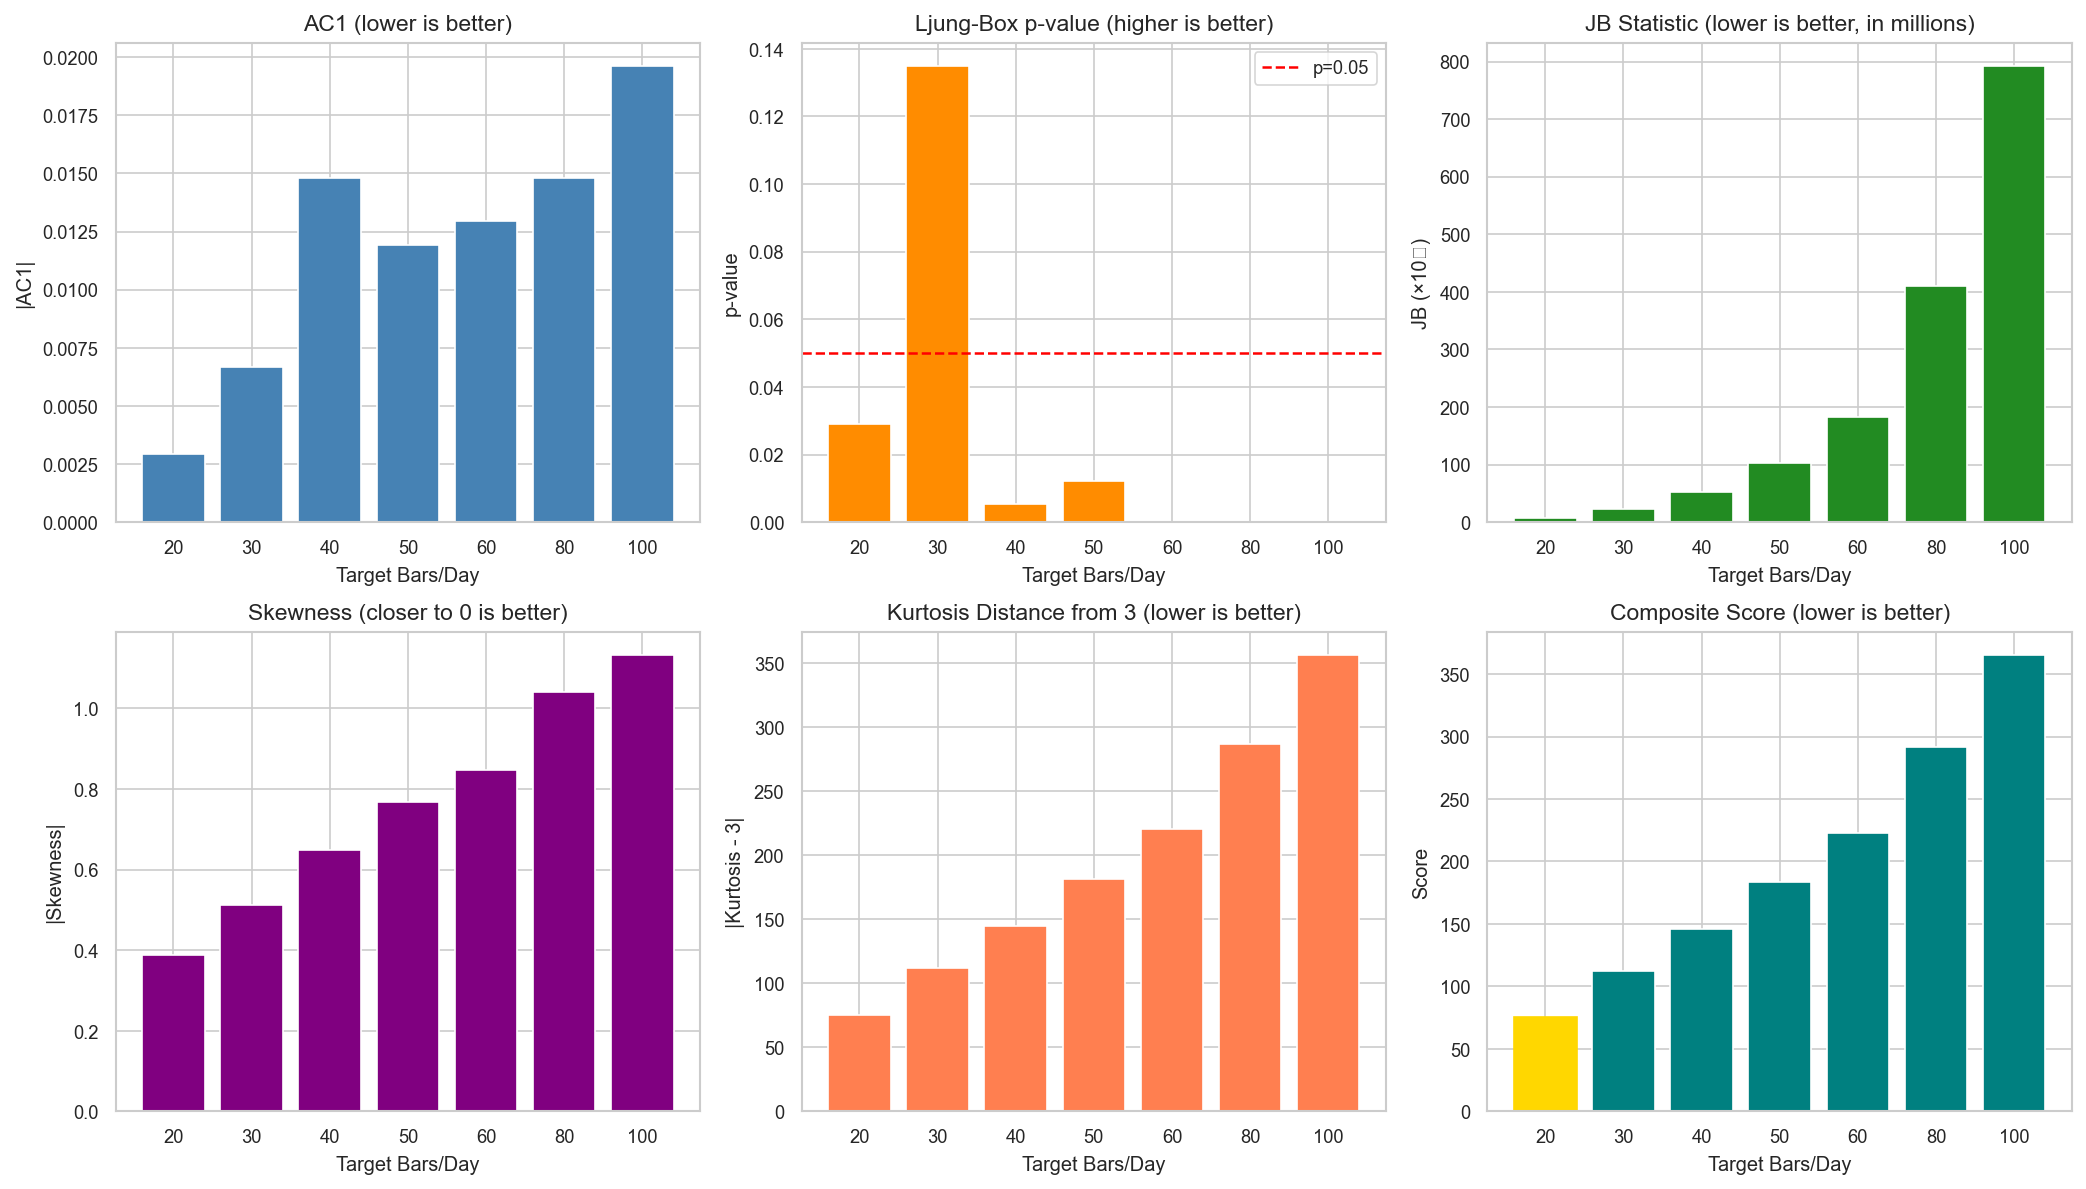
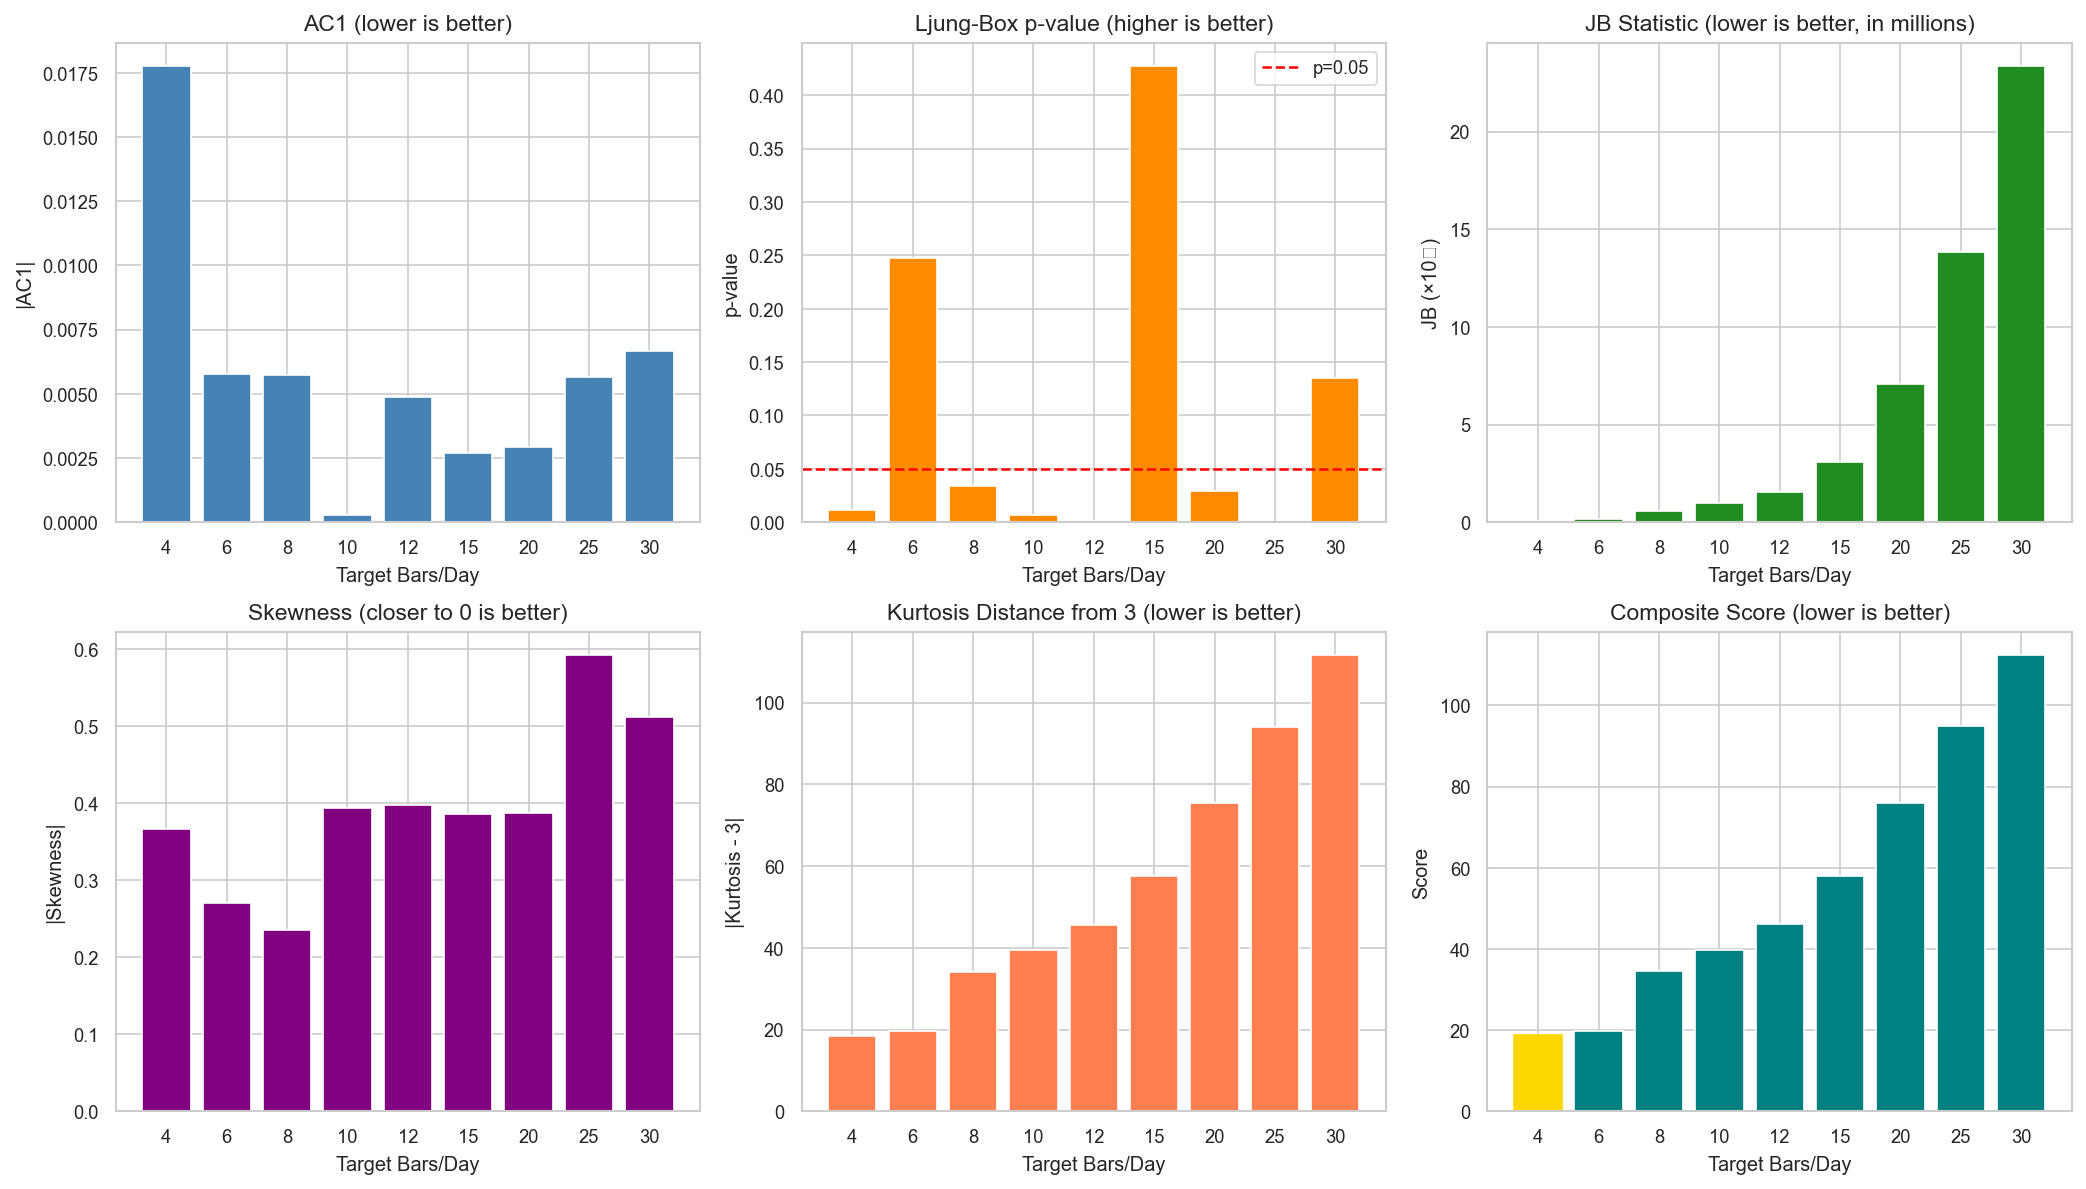
feat(IF9999): extend parameter optimization from 4 bars/day
Test range: 4, 6, 8, 10, 12, 15, 20, 25, 30

Results:
- TARGET_DAILY_BARS=4: Best overall score (18.7), lowest JB (84K)
- TARGET_DAILY_BARS=6: Best AC1 (0.0058), most independent
- Lower bars/day → better I.I.D. Normal properties

diff --git a/strategies/IF9999/02_parameter_optimization.py b/strategies/IF9999/02_parameter_optimization.py
@@ -301,8 +301,8 @@ def main():
     df = load_if_data(DATA_PATH)
     print(f"  数据量: {len(df)} 行")
 
-    # 定义测试范围
-    target_range = [20, 30, 40, 50, 60, 80, 100]
+    # 定义测试范围（从更小的值开始）
+    target_range = [4, 6, 8, 10, 12, 15, 20, 25, 30]
 
     print("\n[Step 2] 运行参数优化...")
     results_df = run_parameter_optimization(df, target_range)
